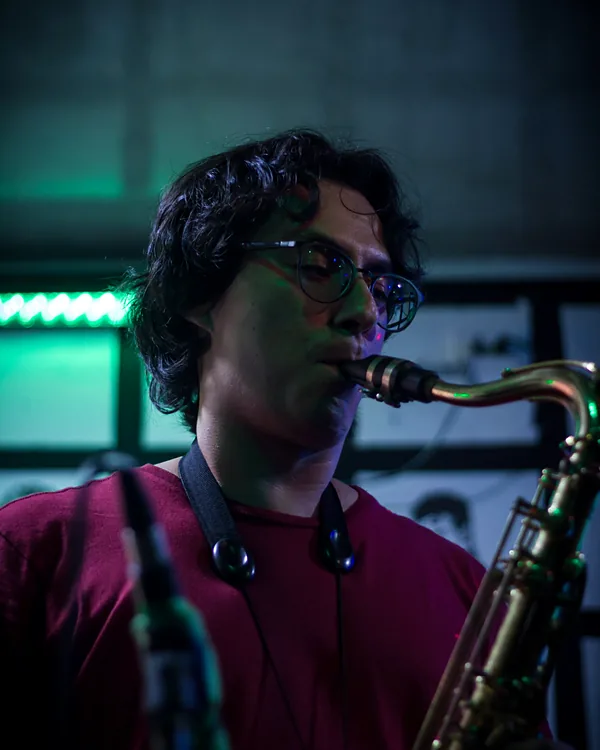
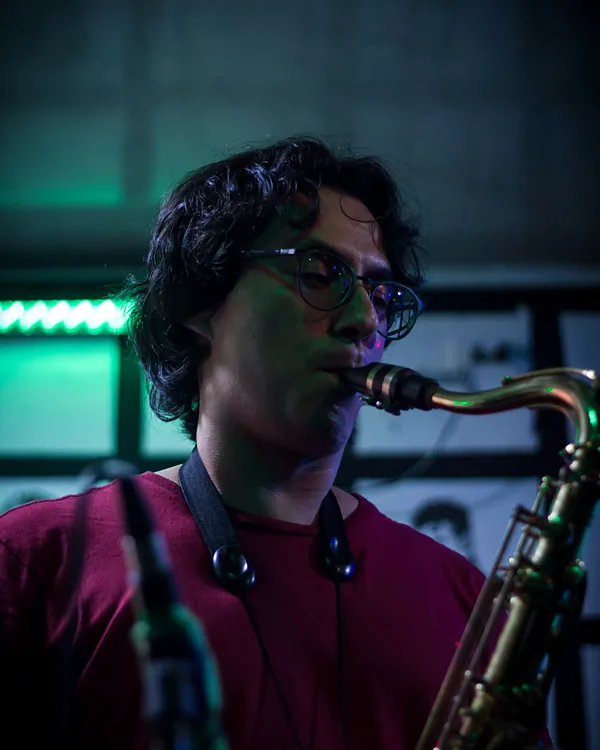
Galería de Sobre mí reordenada y nueva imagen para compartir
Claude-Session: https://claude.ai/code/session_01AbgfpmHaCtCfbk1d1c1rUW

diff --git a/index.html b/index.html
@@ -14,7 +14,7 @@
 <meta property="og:title" content="Walamort · Un instrumento del mundo cada semana">
 <meta property="og:description" content="Walamort: un instrumento del mundo cada semana. Esta semana, el tongue drum. Guías gratis y métodos de kalimba y handpan, y clases virtuales de música y de portugués con Walter Agudelo Múnera.">
 <meta property="og:url" content="https://walamort.com/">
-<meta property="og:image" content="https://walamort.com/og.jpg">
+<meta property="og:image" content="https://walamort.com/og.jpg?v=2">
 <meta name="twitter:card" content="summary_large_image">
 <link rel="preconnect" href="https://fonts.googleapis.com">
 <link rel="preconnect" href="https://fonts.gstatic.com" crossorigin>
@@ -135,10 +135,10 @@
     </article>
     </div>
     <div class="gallery">
-      <figure><img src="fotos/escenario.webp" alt="Walter tocando el saxofón tenor en vivo" width="600" height="750" loading="lazy"><figcaption>En el escenario</figcaption></figure>
-      <figure><img src="fotos/estudio.webp?v=2" alt="Walter grabando bongós en el estudio" width="600" height="750" loading="lazy"><figcaption>En el estudio</figcaption></figure>
-      <figure><img src="fotos/flauta.webp" alt="Walter con su flauta traversa" width="600" height="750" loading="lazy"><figcaption>Flauta traversa</figcaption></figure>
-      <figure><img src="fotos/mirador.webp" alt="Walter en un mirador de Antioquia" width="600" height="750" loading="lazy"><figcaption>Desde Antioquia para el mundo</figcaption></figure>
+      <figure><img src="fotos/escenario.webp?v=3" alt="Walter tocando el saxofón tenor en vivo" width="600" height="750" loading="lazy"><figcaption>En el escenario</figcaption></figure>
+      <figure><img src="fotos/flauta.webp?v=3" alt="Walter con su flauta traversa" width="600" height="750" loading="lazy"><figcaption>Flauta traversa</figcaption></figure>
+      <figure><img src="fotos/estudio.webp?v=3" alt="Walter grabando bongós en el estudio" width="600" height="750" loading="lazy"><figcaption>En el estudio</figcaption></figure>
+      <figure><img src="fotos/mirador.webp?v=3" alt="Walter en un mirador de Antioquia" width="600" height="750" loading="lazy"><figcaption>Desde Antioquia para el mundo</figcaption></figure>
     </div>
   </div>
 </section>

diff --git a/_fuente/plantilla-inicio.html b/_fuente/plantilla-inicio.html
@@ -114,10 +114,10 @@
     </article>
     </div>
     <div class="gallery">
-      <figure><img src="fotos/escenario.webp" alt="Walter tocando el saxofón tenor en vivo" width="600" height="750" loading="lazy"><figcaption>En el escenario</figcaption></figure>
-      <figure><img src="fotos/estudio.webp?v=2" alt="Walter grabando bongós en el estudio" width="600" height="750" loading="lazy"><figcaption>En el estudio</figcaption></figure>
-      <figure><img src="fotos/flauta.webp" alt="Walter con su flauta traversa" width="600" height="750" loading="lazy"><figcaption>Flauta traversa</figcaption></figure>
-      <figure><img src="fotos/mirador.webp" alt="Walter en un mirador de Antioquia" width="600" height="750" loading="lazy"><figcaption>Desde Antioquia para el mundo</figcaption></figure>
+      <figure><img src="fotos/escenario.webp?v=3" alt="Walter tocando el saxofón tenor en vivo" width="600" height="750" loading="lazy"><figcaption>En el escenario</figcaption></figure>
+      <figure><img src="fotos/flauta.webp?v=3" alt="Walter con su flauta traversa" width="600" height="750" loading="lazy"><figcaption>Flauta traversa</figcaption></figure>
+      <figure><img src="fotos/estudio.webp?v=3" alt="Walter grabando bongós en el estudio" width="600" height="750" loading="lazy"><figcaption>En el estudio</figcaption></figure>
+      <figure><img src="fotos/mirador.webp?v=3" alt="Walter en un mirador de Antioquia" width="600" height="750" loading="lazy"><figcaption>Desde Antioquia para el mundo</figcaption></figure>
     </div>
   </div>
 </section>

diff --git a/instrumentos/tongue-drum/index.html b/instrumentos/tongue-drum/index.html
@@ -14,7 +14,7 @@
 <meta property="og:title" content="¿Qué es un tongue drum? Historia, sonido y cómo se toca | Walamort">
 <meta property="og:description" content="Qué es el tongue drum o tambor de lengüetas, cómo nació de un tanque de gas, cómo se toca y en qué se diferencia del handpan. Con videos de Walamort.">
 <meta property="og:url" content="https://walamort.com/instrumentos/tongue-drum/">
-<meta property="og:image" content="https://walamort.com/og.jpg">
+<meta property="og:image" content="https://walamort.com/og.jpg?v=2">
 <meta name="twitter:card" content="summary_large_image">
 <link rel="preconnect" href="https://fonts.googleapis.com">
 <link rel="preconnect" href="https://fonts.gstatic.com" crossorigin>

diff --git a/instrumentos/handpan/index.html b/instrumentos/handpan/index.html
@@ -14,7 +14,7 @@
 <meta property="og:title" content="¿Qué es un handpan? Historia, sonido y cómo se toca | Walamort">
 <meta property="og:description" content="Qué es el handpan, cómo nació en Suiza, cómo se toca y cómo empezar. Con videos, guía gratis y métodos de handpan en Sol menor de Walamort.">
 <meta property="og:url" content="https://walamort.com/instrumentos/handpan/">
-<meta property="og:image" content="https://walamort.com/og.jpg">
+<meta property="og:image" content="https://walamort.com/og.jpg?v=2">
 <meta name="twitter:card" content="summary_large_image">
 <link rel="preconnect" href="https://fonts.googleapis.com">
 <link rel="preconnect" href="https://fonts.gstatic.com" crossorigin>

diff --git a/instrumentos/kalimba/index.html b/instrumentos/kalimba/index.html
@@ -14,7 +14,7 @@
 <meta property="og:title" content="¿Qué es una kalimba? Historia, sonido y cómo se toca | Walamort">
 <meta property="og:description" content="Qué es la kalimba, de dónde viene, cómo se toca y cómo empezar a tocarla. Con videos, guía gratis en PDF y métodos por niveles de Walamort.">
 <meta property="og:url" content="https://walamort.com/instrumentos/kalimba/">
-<meta property="og:image" content="https://walamort.com/og.jpg">
+<meta property="og:image" content="https://walamort.com/og.jpg?v=2">
 <meta name="twitter:card" content="summary_large_image">
 <link rel="preconnect" href="https://fonts.googleapis.com">
 <link rel="preconnect" href="https://fonts.gstatic.com" crossorigin>

diff --git a/instrumentos/index.html b/instrumentos/index.html
@@ -14,7 +14,7 @@
 <meta property="og:title" content="Instrumentos del mundo, uno por semana | Walamort">
 <meta property="og:description" content="Todos los instrumentos de la serie «Un instrumento del mundo cada semana» de Walamort: historia, sonido, cómo se tocan y videos.">
 <meta property="og:url" content="https://walamort.com/instrumentos/">
-<meta property="og:image" content="https://walamort.com/og.jpg">
+<meta property="og:image" content="https://walamort.com/og.jpg?v=2">
 <meta name="twitter:card" content="summary_large_image">
 <link rel="preconnect" href="https://fonts.googleapis.com">
 <link rel="preconnect" href="https://fonts.gstatic.com" crossorigin>

diff --git a/privacidad/index.html b/privacidad/index.html
@@ -14,7 +14,7 @@
 <meta property="og:title" content="Política de privacidad | Walamort">
 <meta property="og:description" content="Cómo Walamort trata los datos personales de quienes se suscriben, compran o reservan clases.">
 <meta property="og:url" content="https://walamort.com/privacidad/">
-<meta property="og:image" content="https://walamort.com/og.jpg">
+<meta property="og:image" content="https://walamort.com/og.jpg?v=2">
 <meta name="twitter:card" content="summary_large_image">
 <link rel="preconnect" href="https://fonts.googleapis.com">
 <link rel="preconnect" href="https://fonts.gstatic.com" crossorigin>

diff --git a/404.html b/404.html
@@ -14,7 +14,7 @@
 <meta property="og:title" content="Página no encontrada | Walamort">
 <meta property="og:description" content="Esta página no existe.">
 <meta property="og:url" content="https://walamort.com/404.html">
-<meta property="og:image" content="https://walamort.com/og.jpg">
+<meta property="og:image" content="https://walamort.com/og.jpg?v=2">
 <meta name="twitter:card" content="summary_large_image">
 <link rel="preconnect" href="https://fonts.googleapis.com">
 <link rel="preconnect" href="https://fonts.gstatic.com" crossorigin>

diff --git a/_fuente/build.py b/_fuente/build.py
@@ -47,7 +47,7 @@ PERSONA = {"@type": "Person", "name": "Walter Agudelo Múnera", "alternateName":
 
 def head(titulo, desc, ruta, raiz, extra="", imagen=None, tipo="website"):
     url = BASE + "/" + ruta
-    img = imagen or (BASE + "/og.jpg")
+    img = imagen or (BASE + "/og.jpg?v=2")
     return f"""<meta charset="utf-8">
 <meta name="viewport" content="width=device-width,initial-scale=1,viewport-fit=cover">
 <title>{e(titulo)}</title>
